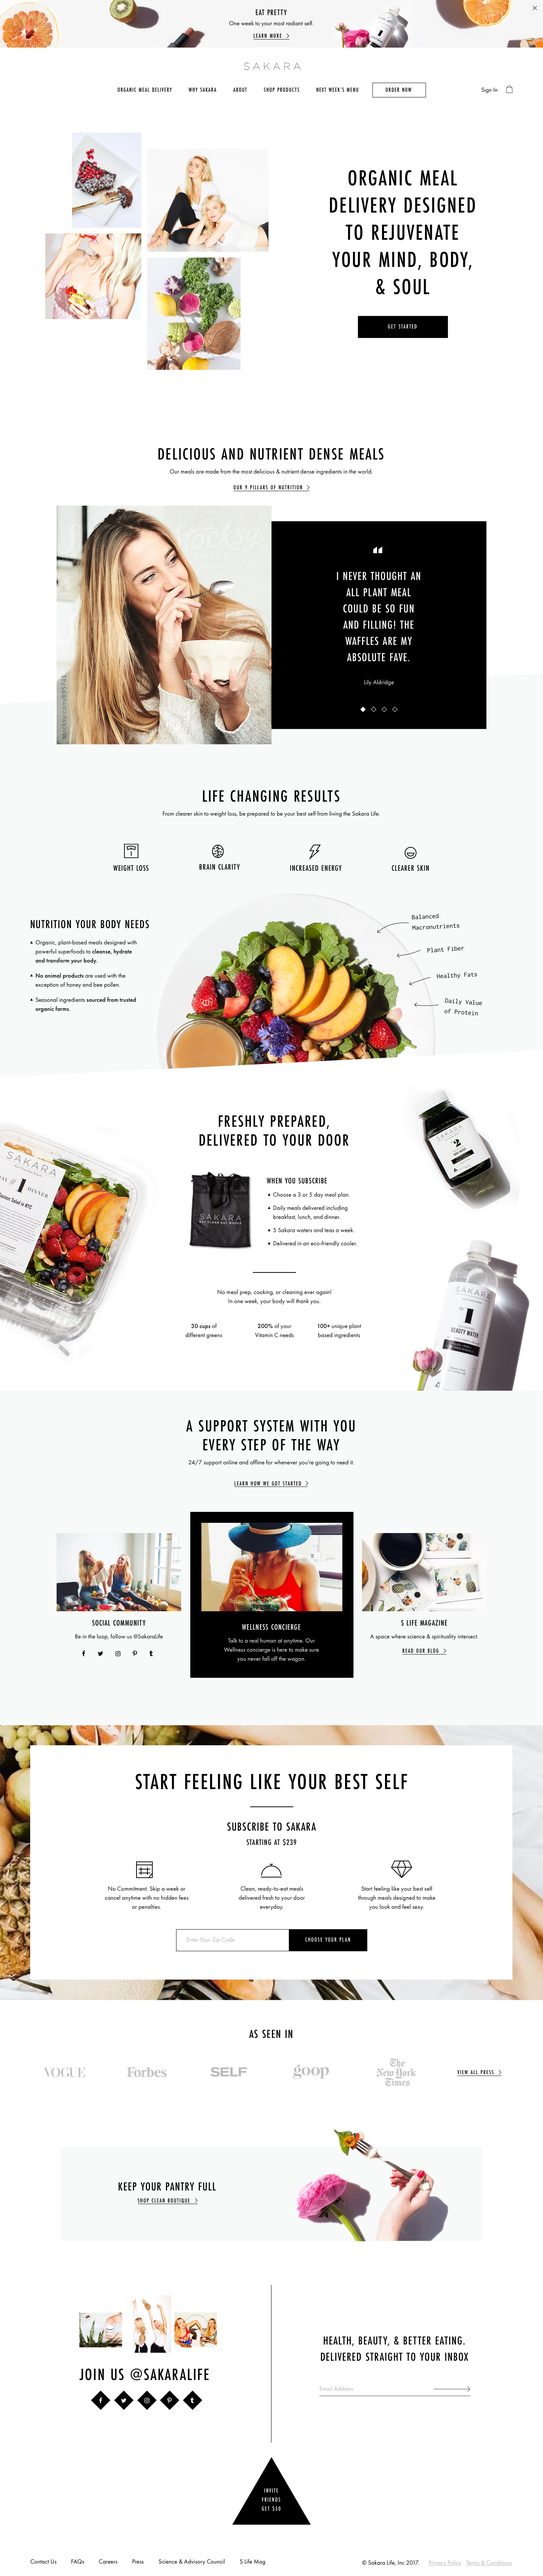
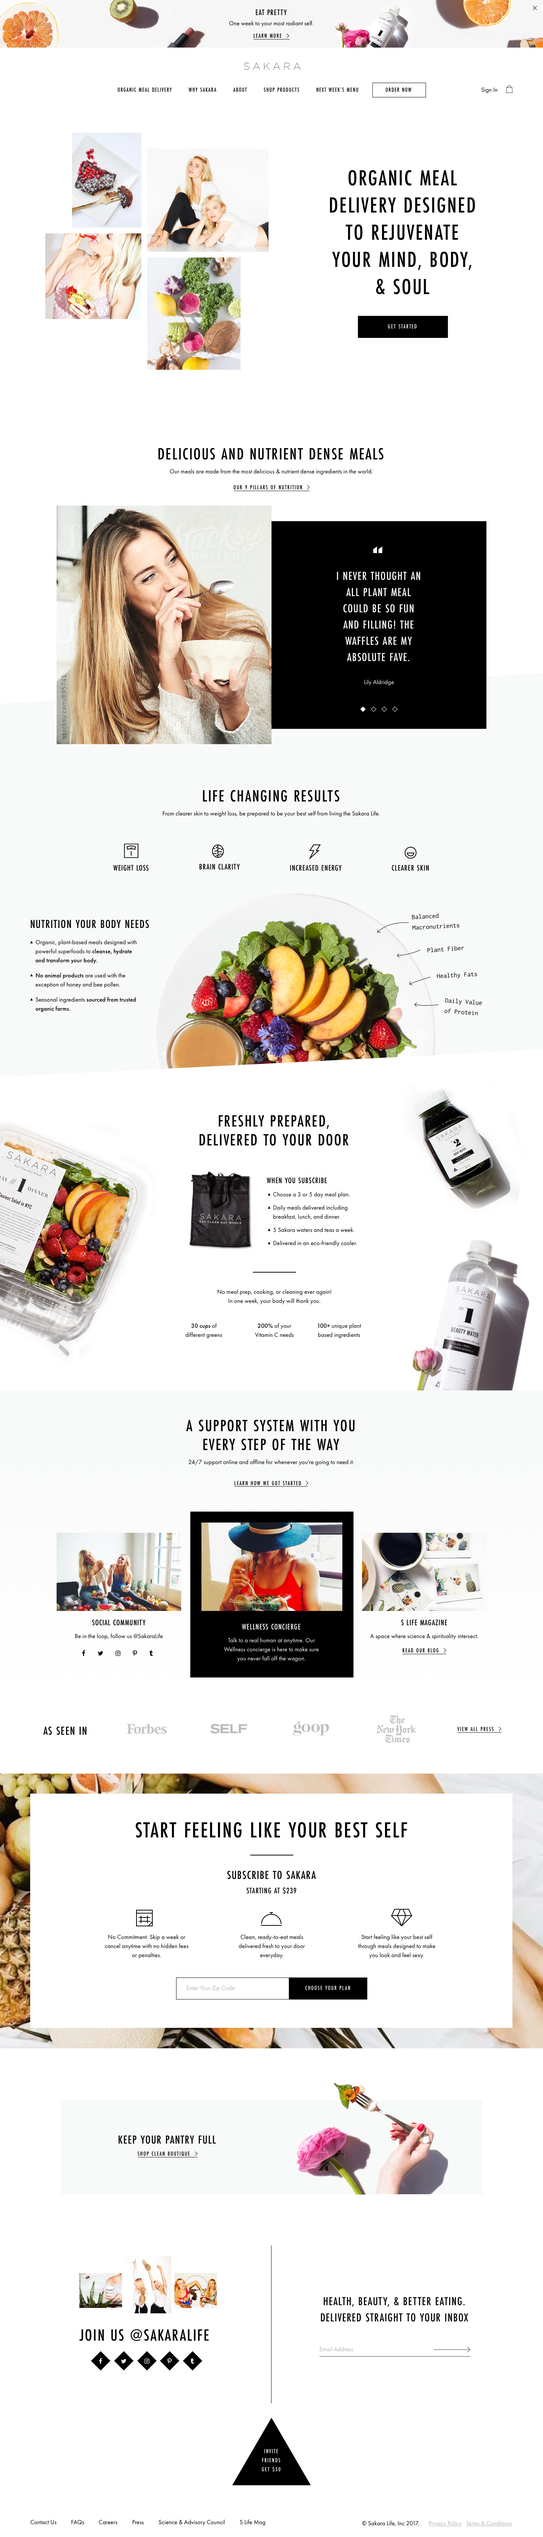
Fix Footer
Fix Footer

diff --git a/BARREL-Sakara/BARREL-Sakara.hyperesources/barrelsakara_hype_generated_script.js b/BARREL-Sakara/BARREL-Sakara.hyperesources/barrelsakara_hype_generated_script.js
@@ -3,5 +3,5 @@
 (function(){(function k(){function l(a,b,d){var c=!1;null==window[a]&&(null==window[b]?(window[b]=[],window[b].push(k),a=document.getElementsByTagName("head")[0],b=document.createElement("script"),c=h,false==!0&&(c=""),b.type="text/javascript",b.src=c+"/"+d,a.appendChild(b)):window[b].push(k),c=!0);return c}var h="BARREL-Sakara.hyperesources",c="BARREL-Sakara",e="barrelsakara_hype_container";if(false==!1)try{for(var f=document.getElementsByTagName("script"),
 a=0;a<f.length;a++){var b=f[a].src,d=null!=b?b.indexOf("barrelsakara_hype_generated_script.js"):-1;if(-1!=d){h=b.substr(0,d-1);break}}}catch(n){}if(false==!1&&(a=navigator.userAgent.match(/MSIE (\d+\.\d+)/),a=parseFloat(a&&a[1])||null,a=l("HYPE_578","HYPE_dtl_578",!0==(null!=a&&10>a||false==!0)?"HYPE-578.full.min.js":"HYPE-578.thin.min.js"),false==!0&&(a=a||l("HYPE_w_578","HYPE_wdtl_578","HYPE-578.waypoints.min.js")),a))return;f=window.HYPE.documents;
 if(null!=f[c]){b=1;a=c;do c=""+a+"-"+b++;while(null!=f[c]);d=document.getElementsByTagName("div");b=!1;for(a=0;a<d.length;a++)if(d[a].id==e&&null==d[a].getAttribute("HYP_dn")){var b=1,g=e;do e=""+g+"-"+b++;while(null!=document.getElementById(e));d[a].id=e;b=!0;break}if(!1==b)return}b=[];b=[{name:"untitledFunction",source:"function(hypeDocument, element, event) {\t\n\t\n}",identifier:"11"},{name:"untitledFunction2",source:"function(hypeDocument, element, event) {\t\n\t\t\t\n\t\t\n\t\t\tmenu = hypeDocument.getElementById('menu');\n\n\twindow.onscroll = function(){\n\t\tvar scroll = window.pageYOffset || (document.body.scrollTop || document.documentElement.scrollTop);\n\t\t\n\t\tvar menuDelta = 350;\n\t\tvar menuFadeOut = 6000;\n\n\t\tif (scroll > menuDelta){\n\t\t\tmenu.classList.add('sticky')\n\t\t}\n\t\tif (scroll <= menuDelta){\n\t\t\tmenu.classList.remove('sticky')\n\t\t}\n\t\tif (scroll > menuFadeOut){\n\t\t\tmenu.classList.remove('sticky')\n\t\t}\n\t};\t\n\n\n\t\n}",identifier:"12"}];d={};g={};for(a=0;a<b.length;a++)try{g[b[a].identifier]=b[a].name,d[b[a].name]=eval("(function(){return "+b[a].source+"})();")}catch(m){window.console&&window.console.log(m),d[b[a].name]=
-function(){}}a=new HYPE_578(c,e,{"-2":{n:"blank.gif"},"25":{p:1,n:"Pasted-11.png",g:"61",t:"@1x"},"18":{p:1,n:"Pasted-6.jpg",g:"43",o:true,t:"@1x"},"10":{p:1,n:"Pasted-3.jpg",g:"33",o:true,t:"@1x"},"26":{p:1,n:"Pasted-12.png",g:"66",t:"@1x"},"19":{p:1,n:"Pasted-6_2x.jpg",g:"43",o:true,t:"@2x"},"11":{p:1,n:"Pasted-3_2x.jpg",g:"33",o:true,t:"@2x"},"0":{p:1,n:"Desktop%20-%20Homepage%20v2.0%401x.jpg",g:"7",o:true,t:"@1x"},"12":{p:1,n:"Pasted-4.jpg",g:"35",o:true,t:"@1x"},"1":{p:1,n:"OnScrollNav.png",g:"9",t:"@1x"},"20":{p:1,n:"Pasted-7.jpg",g:"45",o:true,t:"@1x"},"2":{p:1,n:"Hero1.png",g:"13",t:"@1x"},"13":{p:1,n:"Pasted-4_2x.jpg",g:"35",o:true,t:"@2x"},"3":{p:1,n:"Hero2.png",g:"16",t:"@1x"},"21":{p:1,n:"Pasted-7_2x.jpg",g:"45",o:true,t:"@2x"},"14":{p:1,n:"Pasted-5.jpg",g:"39",o:true,t:"@1x"},"4":{p:1,n:"Hero3.png",g:"19",t:"@1x"},"5":{p:1,n:"Hero4.png",g:"22",t:"@1x"},"15":{p:1,n:"Pasted-5_2x.jpg",g:"39",o:true,t:"@2x"},"22":{p:1,n:"Pasted-8.jpg",g:"47",o:true,t:"@1x"},"6":{p:1,n:"Pasted-1.jpg",g:"27",o:true,t:"@1x"},"23":{p:1,n:"Pasted-9.png",g:"52",t:"@1x"},"16":{p:1,n:"Pasted-2.jpg",g:"41",o:true,t:"@1x"},"7":{p:1,n:"Pasted-1_2x.jpg",g:"27",o:true,t:"@2x"},"-1":{n:"PIE.htc"},"8":{p:1,n:"Pasted.jpg",g:"29",o:true,t:"@1x"},"24":{p:1,n:"Pasted-10.png",g:"54",t:"@1x"},"17":{p:1,n:"Pasted-2_2x.jpg",g:"41",o:true,t:"@2x"},"9":{p:1,n:"Pasted_2x.jpg",g:"29",o:true,t:"@2x"}},h,[],d,[{n:"Homepage",o:"1",X:[0]}],[{A:{a:[{p:4,h:"12"}]},o:"3",p:"600px",cA:false,Y:1440,Z:6822,c:"#EAEAEA",L:[],bY:1,d:1440,U:{},T:{"57":{i:"57",n:"CarouselB",z:0.17,b:[],a:[{f:"c",y:0,z:0.17,i:"e",e:1,s:0,o:"77"},{f:"c",y:0,z:0.17,i:"e",e:1,s:0,o:"79"},{y:0,i:"e",s:1,z:0,o:"71",f:"c"},{y:0,i:"e",s:0,z:0,o:"70",f:"c"},{y:0.17,i:"e",s:1,z:0,o:"77",f:"c"},{y:0.17,i:"e",s:1,z:0,o:"79",f:"c"}],f:30},kTimelineDefaultIdentifier:{i:"kTimelineDefaultIdentifier",n:"Main Timeline",z:12.05,b:[],a:[{f:"c",y:1,z:0.2,i:"e",e:1,s:0,o:"73"},{y:1.2,i:"e",s:1,z:0,o:"73",f:"c"},{f:"c",y:2.15,z:0.2,i:"e",e:1,s:0,o:"87"},{y:3.05,i:"e",s:1,z:0,o:"87",f:"c"},{f:"c",y:4,z:0.2,i:"e",e:1,s:0,o:"90"},{y:4.2,i:"e",s:1,z:0,o:"90",f:"c"},{f:"c",y:5.15,z:0.22,i:"e",e:1,s:0,o:"94"},{y:6.07,i:"e",s:1,z:0,o:"94",f:"c"},{f:"c",y:7,z:0.2,i:"e",e:1,s:0,o:"85"},{y:7.2,i:"e",s:1,z:0,o:"85",f:"c"},{f:"c",y:8.15,z:0.2,i:"e",e:1,s:0,o:"89"},{y:9.05,i:"e",s:1,z:0,o:"89",f:"c"},{f:"c",y:10,z:0.2,i:"e",e:1,s:0,o:"74"},{y:10.2,i:"e",s:1,z:0,o:"74",f:"c"},{f:"c",y:11.15,z:0.2,i:"e",e:1,s:0,o:"96"},{y:12.05,i:"e",s:1,z:0,o:"96",f:"c"}],f:30}},bZ:180,O:["68","92","89","90","91","88","74","73","75","72","87","85","86","84","96","94","95","93","77","76","81","79","80","82","78","71","70","69","83"],n:"Untitled Layout","_":0,v:{"77":{h:"47",p:"no-repeat",x:"visible",a:-273,q:"100% 100%",b:-75,j:"absolute",dB:"img",z:2,k:"div",bF:"76",d:756,c:1133,cQ:1,e:0,r:"inline",cR:1},"92":{h:"7",p:"no-repeat",x:"visible",a:0,q:"100% 100%",b:0,j:"absolute",dB:"img",z:1,k:"div",c:1440,d:6822,r:"inline"},"85":{h:"39",p:"no-repeat",x:"visible",a:-37,q:"100% 100%",b:-16,j:"absolute",dB:"img",z:4,k:"div",bF:"84",d:266,c:329,cQ:1,e:0,r:"inline",cR:1},"78":{c:100,d:29,I:"None",J:"None",K:"None",g:"#000000",L:"None",M:0,N:0,A:"#D8DDE4",x:"visible",j:"absolute",B:"#D8DDE4",P:0,k:"div",C:"#D8DDE4",z:2,O:0,D:"#D8DDE4",a:953,b:1862},"70":{h:"54",p:"no-repeat",x:"visible",a:0,q:"100% 100%",b:6,j:"absolute",dB:"img",z:1,k:"div",bF:"69",d:15,c:99,r:"inline",e:1,aP:"pointer"},"93":{k:"div",x:"hidden",c:249,d:300,z:17,a:390,j:"absolute",b:680},"86":{h:"19",p:"no-repeat",x:"visible",a:0,q:"100% 100%",b:0,j:"absolute",bF:"84",z:1,k:"div",dB:"img",d:227,c:256,r:"inline"},"79":{x:"visible",k:"div",c:256,cR:1.1000000000000001,d:330,z:4,e:0,a:878,j:"absolute",cQ:1.1000000000000001,b:1497},"71":{h:"52",p:"no-repeat",x:"visible",a:0,q:"100% 100%",b:6,j:"absolute",dB:"img",z:2,k:"div",bF:"69",d:15,c:99,r:"inline",e:0,aP:"pointer"},"94":{h:"33",p:"no-repeat",x:"visible",a:-22,q:"100% 100%",b:-53,j:"absolute",dB:"img",z:2,k:"div",bF:"93",d:390,c:294,cQ:1,e:0,r:"inline",cR:1},"87":{h:"29",p:"no-repeat",x:"visible",a:0,q:"100% 100%",b:-35,j:"absolute",dB:"img",z:2,k:"div",bF:"84",d:297,c:268,cQ:1,e:0,r:"inline",cR:1},"72":{k:"div",x:"hidden",c:323,d:274,z:14,a:390,j:"absolute",b:393},"95":{h:"22",p:"no-repeat",x:"visible",a:0,q:"100% 100%",b:0,j:"absolute",bF:"93",z:1,k:"div",dB:"img",d:299,c:249,r:"inline"},"88":{x:"hidden",k:"div",c:183,d:253,z:13,e:1,a:191,j:"absolute",b:351},"80":{h:"61",p:"no-repeat",x:"visible",a:19,q:"100% 100%",b:30,j:"absolute",bF:"79",z:2,k:"div",dB:"img",d:185,c:216,r:"inline"},"73":{h:"27",p:"no-repeat",x:"visible",a:-17,q:"100% 100%",b:-8,j:"absolute",dB:"img",z:3,k:"div",bF:"72",d:356,c:356,cQ:1,e:0,r:"inline",cR:1},"96":{h:"45",p:"no-repeat",x:"visible",a:-10,q:"100% 100%",b:-61,j:"absolute",dB:"img",z:3,k:"div",bF:"93",d:405,c:270,cQ:1,e:0,r:"inline",cR:1},"89":{h:"41",p:"no-repeat",x:"visible",a:-43,q:"100% 100%",b:-16,j:"absolute",dB:"img",z:4,k:"div",bF:"88",d:275,c:275,cQ:1,e:0,r:"inline",cR:1},"81":{c:254,d:328,I:"None",r:"inline",e:1,J:"None",K:"None",g:"#000000",L:"None",M:0,N:0,bF:"79",A:"#D8DDE4",x:"visible",j:"absolute",B:"#D8DDE4",k:"div",O:0,C:"#D8DDE4",z:1,P:0,D:"#D8DDE4",a:0,b:0},"74":{h:"43",p:"no-repeat",x:"visible",a:-8,q:"100% 100%",b:-24,j:"absolute",dB:"img",z:4,k:"div",bF:"72",d:338,c:338,cQ:1,e:0,r:"inline",cR:1},"82":{h:"66",p:"no-repeat",x:"visible",a:75,q:"100% 100%",b:290,j:"absolute",bF:"79",z:3,k:"div",dB:"img",d:12,c:103,r:"inline"},"75":{h:"16",p:"no-repeat",x:"visible",a:0,q:"100% 100%",b:0,j:"absolute",bF:"72",z:1,k:"div",dB:"img",d:274,c:323,r:"inline"},"68":{h:"9",p:"no-repeat",x:"visible",i:"menu",q:"100% 100%",b:-90,a:0,j:"absolute",z:18,k:"div",dB:"img",d:81,c:1440,r:"inline",aP:"pointer"},"90":{h:"35",p:"no-repeat",x:"visible",a:-25,q:"100% 100%",b:-11,j:"absolute",dB:"img",z:3,k:"div",bF:"88",d:275,c:234,cQ:1,e:0,r:"inline",cR:1},"83":{c:29,d:27,I:"None",e:1,J:"None",K:"None",L:"None",aP:"pointer",M:0,N:0,A:"#D8DDE4",x:"visible",aA:{a:[{b:"57",p:3,z:false,symbolOid:"2"}]},O:0,j:"absolute",k:"div",dB:"button",z:19,C:"#D8DDE4",D:"#D8DDE4",B:"#D8DDE4",P:0,a:977,b:1865},"76":{x:"hidden",k:"div",c:570,d:632,z:10,e:1,a:150,j:"absolute",b:1339},"69":{k:"div",x:"visible",c:99,d:27,z:3,a:956,j:"absolute",b:1865},"91":{h:"13",p:"no-repeat",x:"visible",a:0,q:"100% 100%",b:0,j:"absolute",bF:"88",z:1,k:"div",dB:"img",d:253,c:185,r:"inline"},"84":{k:"div",x:"hidden",c:256,d:227,z:15,a:120,j:"absolute",b:618}}}],{},g,{},null,false,true,-1,true,true,false,true);f[c]=a.API;document.getElementById(e).setAttribute("HYP_dn",
+function(){}}a=new HYPE_578(c,e,{"-2":{n:"blank.gif"},"25":{p:1,n:"Pasted-12.png",g:"66",t:"@1x"},"18":{p:1,n:"Pasted-6_2x.jpg",g:"43",o:true,t:"@2x"},"10":{p:1,n:"Pasted-3_2x.jpg",g:"33",o:true,t:"@2x"},"26":{p:1,n:"Desktop%20-%20Homepage%20v2.0%401x.jpg",g:"7",o:true,t:"@1x"},"19":{p:1,n:"Pasted-7.jpg",g:"45",o:true,t:"@1x"},"11":{p:1,n:"Pasted-4.jpg",g:"35",o:true,t:"@1x"},"0":{p:1,n:"OnScrollNav.png",g:"9",t:"@1x"},"12":{p:1,n:"Pasted-4_2x.jpg",g:"35",o:true,t:"@2x"},"1":{p:1,n:"Hero1.png",g:"13",t:"@1x"},"20":{p:1,n:"Pasted-7_2x.jpg",g:"45",o:true,t:"@2x"},"2":{p:1,n:"Hero2.png",g:"16",t:"@1x"},"13":{p:1,n:"Pasted-5.jpg",g:"39",o:true,t:"@1x"},"3":{p:1,n:"Hero3.png",g:"19",t:"@1x"},"21":{p:1,n:"Pasted-8.jpg",g:"47",o:true,t:"@1x"},"14":{p:1,n:"Pasted-5_2x.jpg",g:"39",o:true,t:"@2x"},"4":{p:1,n:"Hero4.png",g:"22",t:"@1x"},"5":{p:1,n:"Pasted-1.jpg",g:"27",o:true,t:"@1x"},"15":{p:1,n:"Pasted-2.jpg",g:"41",o:true,t:"@1x"},"22":{p:1,n:"Pasted-9.png",g:"52",t:"@1x"},"6":{p:1,n:"Pasted-1_2x.jpg",g:"27",o:true,t:"@2x"},"23":{p:1,n:"Pasted-10.png",g:"54",t:"@1x"},"16":{p:1,n:"Pasted-2_2x.jpg",g:"41",o:true,t:"@2x"},"7":{p:1,n:"Pasted.jpg",g:"29",o:true,t:"@1x"},"-1":{n:"PIE.htc"},"8":{p:1,n:"Pasted_2x.jpg",g:"29",o:true,t:"@2x"},"24":{p:1,n:"Pasted-11.png",g:"61",t:"@1x"},"17":{p:1,n:"Pasted-6.jpg",g:"43",o:true,t:"@1x"},"9":{p:1,n:"Pasted-3.jpg",g:"33",o:true,t:"@1x"}},h,[],d,[{n:"Homepage",o:"1",X:[0]}],[{A:{a:[{p:4,h:"12"}]},o:"3",p:"600px",cA:false,Y:1440,Z:6822,c:"#EAEAEA",L:[],bY:1,d:1440,U:{},T:{"57":{i:"57",n:"CarouselB",z:0.17,b:[],a:[{f:"c",y:0,z:0.17,i:"e",e:1,s:0,o:"78"},{f:"c",y:0,z:0.17,i:"e",e:1,s:0,o:"80"},{y:0,i:"e",s:1,z:0,o:"72",f:"c"},{y:0,i:"e",s:0,z:0,o:"71",f:"c"},{y:0.17,i:"e",s:1,z:0,o:"78",f:"c"},{y:0.17,i:"e",s:1,z:0,o:"80",f:"c"}],f:30},kTimelineDefaultIdentifier:{i:"kTimelineDefaultIdentifier",n:"Main Timeline",z:12.05,b:[],a:[{f:"c",y:1,z:0.2,i:"e",e:1,s:0,o:"74"},{y:1.2,i:"e",s:1,z:0,o:"74",f:"c"},{f:"c",y:2.15,z:0.2,i:"e",e:1,s:0,o:"88"},{y:3.05,i:"e",s:1,z:0,o:"88",f:"c"},{f:"c",y:4,z:0.2,i:"e",e:1,s:0,o:"91"},{y:4.2,i:"e",s:1,z:0,o:"91",f:"c"},{f:"c",y:5.15,z:0.22,i:"e",e:1,s:0,o:"95"},{y:6.07,i:"e",s:1,z:0,o:"95",f:"c"},{f:"c",y:7,z:0.2,i:"e",e:1,s:0,o:"86"},{y:7.2,i:"e",s:1,z:0,o:"86",f:"c"},{f:"c",y:8.15,z:0.2,i:"e",e:1,s:0,o:"90"},{y:9.05,i:"e",s:1,z:0,o:"90",f:"c"},{f:"c",y:10,z:0.2,i:"e",e:1,s:0,o:"75"},{y:10.2,i:"e",s:1,z:0,o:"75",f:"c"},{f:"c",y:11.15,z:0.2,i:"e",e:1,s:0,o:"97"},{y:12.05,i:"e",s:1,z:0,o:"97",f:"c"}],f:30}},bZ:180,O:["69","93","98","90","91","92","89","75","74","76","73","88","86","87","85","97","95","96","94","78","77","80","82","81","83","70","79","84","72","71"],n:"Untitled Layout","_":0,v:{"77":{x:"hidden",k:"div",c:570,d:641,z:11,e:1,a:150,j:"absolute",b:1360},"92":{h:"13",p:"no-repeat",x:"visible",a:0,q:"100% 100%",b:0,j:"absolute",bF:"89",z:1,k:"div",dB:"img",d:253,c:185,r:"inline"},"85":{k:"div",x:"hidden",c:256,d:227,z:16,a:120,j:"absolute",b:628},"78":{h:"47",p:"no-repeat",x:"visible",a:-273,q:"100% 100%",b:-66,j:"absolute",dB:"img",z:2,k:"div",bF:"77",d:756,c:1133,cQ:1,e:0,r:"inline",cR:1},"70":{k:"div",x:"visible",c:99,d:27,z:4,a:956,j:"absolute",b:1894},"93":{h:"7",p:"no-repeat",x:"visible",a:0,q:"100% 100%",b:0,j:"absolute",dB:"img",z:1,k:"div",c:1440,d:6822,r:"inline"},"86":{h:"39",p:"no-repeat",x:"visible",a:-37,q:"100% 100%",b:-16,j:"absolute",dB:"img",z:4,k:"div",bF:"85",d:266,c:329,cQ:1,e:0,r:"inline",cR:1},"79":{c:100,d:29,I:"None",J:"None",K:"None",g:"#000000",L:"None",M:0,N:0,A:"#D8DDE4",x:"visible",j:"absolute",B:"#D8DDE4",P:0,k:"div",C:"#D8DDE4",z:3,O:0,D:"#D8DDE4",a:955,b:1891},"71":{h:"54",p:"no-repeat",x:"visible",a:0,q:"100% 100%",b:6,j:"absolute",dB:"img",z:1,k:"div",bF:"70",d:15,c:99,r:"inline",e:1,aP:"pointer"},"94":{k:"div",x:"hidden",c:249,d:300,z:18,a:390,j:"absolute",b:690},"87":{h:"19",p:"no-repeat",x:"visible",a:0,q:"100% 100%",b:0,j:"absolute",bF:"85",z:1,k:"div",dB:"img",d:227,c:256,r:"inline"},"72":{h:"52",p:"no-repeat",x:"visible",a:0,q:"100% 100%",b:6,j:"absolute",dB:"img",z:2,k:"div",bF:"70",d:15,c:99,r:"inline",e:0,aP:"pointer"},"95":{h:"33",p:"no-repeat",x:"visible",a:-22,q:"100% 100%",b:-53,j:"absolute",dB:"img",z:2,k:"div",bF:"94",d:390,c:294,cQ:1,e:0,r:"inline",cR:1},"88":{h:"29",p:"no-repeat",x:"visible",a:0,q:"100% 100%",b:-35,j:"absolute",dB:"img",z:2,k:"div",bF:"85",d:297,c:268,cQ:1,e:0,r:"inline",cR:1},"80":{x:"visible",k:"div",c:256,cR:1.1000000000000001,d:330,z:5,e:0,a:878,j:"absolute",cQ:1.1000000000000001,b:1497},"73":{k:"div",x:"hidden",c:323,d:274,z:15,a:390,j:"absolute",b:403},"96":{h:"22",p:"no-repeat",x:"visible",a:0,q:"100% 100%",b:0,j:"absolute",bF:"94",z:1,k:"div",dB:"img",d:299,c:249,r:"inline"},"89":{x:"hidden",k:"div",c:183,d:253,z:14,e:1,a:191,j:"absolute",b:361},"81":{h:"61",p:"no-repeat",x:"visible",a:18,q:"100% 100%",b:51,j:"absolute",bF:"80",z:2,k:"div",dB:"img",d:185,c:216,r:"inline"},"74":{h:"27",p:"no-repeat",x:"visible",a:-17,q:"100% 100%",b:-8,j:"absolute",dB:"img",z:3,k:"div",bF:"73",d:356,c:356,cQ:1,e:0,r:"inline",cR:1},"97":{h:"45",p:"no-repeat",x:"visible",a:-10,q:"100% 100%",b:-61,j:"absolute",dB:"img",z:3,k:"div",bF:"94",d:405,c:270,cQ:1,e:0,r:"inline",cR:1},"82":{c:254,d:328,I:"None",r:"inline",e:1,J:"None",K:"None",g:"#000000",L:"None",M:0,w:"",N:0,A:"#D8DDE4",x:"visible",j:"absolute",B:"#D8DDE4",k:"div",O:0,C:"#D8DDE4",z:1,bF:"80",D:"#D8DDE4",P:0,a:1,b:13},"75":{h:"43",p:"no-repeat",x:"visible",a:-8,q:"100% 100%",b:-24,j:"absolute",dB:"img",z:4,k:"div",bF:"73",d:338,c:338,cQ:1,e:0,r:"inline",cR:1},"98":{c:731,d:734,I:"None",J:"None",K:"None",g:"#FFFFFF",L:"None",M:0,N:0,A:"#D8DDE4",x:"visible",j:"absolute",B:"#D8DDE4",P:0,k:"div",C:"#D8DDE4",z:2,O:0,D:"#D8DDE4",a:73,b:326},"90":{h:"41",p:"no-repeat",x:"visible",a:-43,q:"100% 100%",b:-16,j:"absolute",dB:"img",z:4,k:"div",bF:"89",d:275,c:275,cQ:1,e:0,r:"inline",cR:1},"83":{h:"66",p:"no-repeat",x:"visible",a:74,q:"100% 100%",b:315,j:"absolute",bF:"80",z:3,k:"div",dB:"img",d:12,c:103,r:"inline"},"76":{h:"16",p:"no-repeat",x:"visible",a:0,q:"100% 100%",b:0,j:"absolute",bF:"73",z:1,k:"div",dB:"img",d:274,c:323,r:"inline"},"69":{h:"9",p:"no-repeat",x:"visible",i:"menu",q:"100% 100%",b:-90,a:0,j:"absolute",z:19,k:"div",dB:"img",d:81,c:1440,r:"inline",aP:"pointer"},"91":{h:"35",p:"no-repeat",x:"visible",a:-25,q:"100% 100%",b:-11,j:"absolute",dB:"img",z:3,k:"div",bF:"89",d:275,c:234,cQ:1,e:0,r:"inline",cR:1},"84":{c:29,d:27,I:"None",e:1,J:"None",K:"None",L:"None",aP:"pointer",M:0,N:0,A:"#D8DDE4",x:"visible",aA:{a:[{b:"57",p:3,z:false,symbolOid:"2"}]},O:0,j:"absolute",k:"div",dB:"button",z:20,C:"#D8DDE4",D:"#D8DDE4",B:"#D8DDE4",P:0,a:977,b:1891}}}],{},g,{},null,false,true,-1,true,true,false,true);f[c]=a.API;document.getElementById(e).setAttribute("HYP_dn",
 c);a.z_o(this.body)})();})();

diff --git a/BARREL-Sakara/index.html b/BARREL-Sakara/index.html
@@ -46,7 +46,7 @@
 	<!-- copy these lines to your document: -->
 
 	<div id="barrelsakara_hype_container" style="margin:auto;position:relative;width:1440px;height:6822px;overflow:hidden;">
-		<script type="text/javascript" charset="utf-8" src="BARREL-Sakara.hyperesources/barrelsakara_hype_generated_script.js?50342"></script>
+		<script type="text/javascript" charset="utf-8" src="BARREL-Sakara.hyperesources/barrelsakara_hype_generated_script.js?176"></script>
 	</div>
 
 	<!-- end copy -->
@@ -57,6 +57,7 @@
 
 	<div style="display:none" aria-hidden=true>
 
+		<div></div>
 
 	</div>
 
